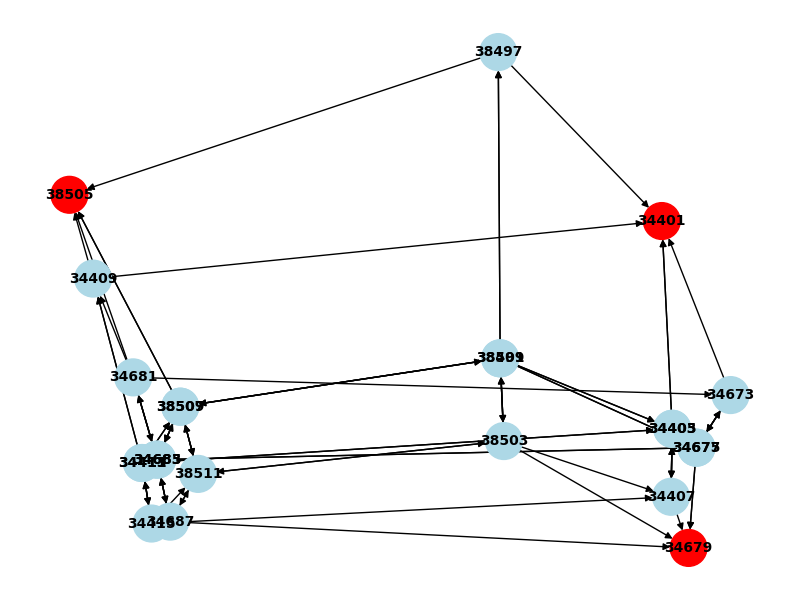
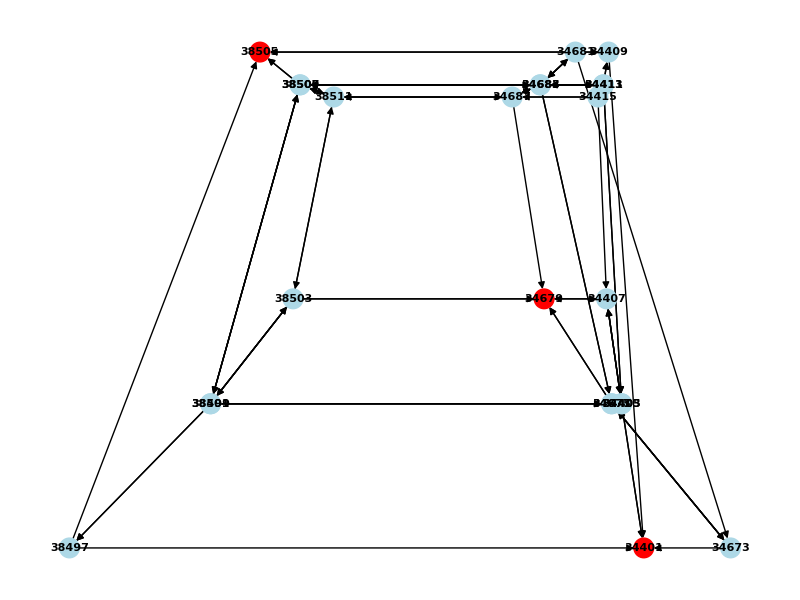
fig generated

diff --git a/complete_graph/L8_confi_dat/L8/draw_sol_graph.py b/complete_graph/L8_confi_dat/L8/draw_sol_graph.py
@@ -22,36 +22,42 @@ def print_coupled_equations(w_connections, M):
 
 
 if (len(sys.argv) < 2):
-    print("python3 draw_sol_graphy.py N idx")
+    print("python3 draw_sol_graphy.py N idx spectral_or_spring")
     exit(1)
 
 N = int(sys.argv[1])
 idx = int(sys.argv[2])
+spectral_or_spring = int(sys.argv[3])
+
 M = N*N
 
 file_path = "./flip_dat/prob-N{}-L8-idx{}.dat".format(N, idx)
 weight_connections = np.loadtxt(file_path, dtype=int)
-connections = np.loadtxt(file_path, dtype=int, usecols=(0, 1))
 print_coupled_equations(weight_connections, M)
 
 G = nx.DiGraph()
 
-G.add_edges_from(connections)
+for source, target, weight in weight_connections:
+	G.add_edge(source, target, weight=weight)
+
+#edge_labels = { (source, target): f"{weight}/{M}" for source, target, weight in weight_connections}
 
 self_edges = list(nx.selfloop_edges(G))
 G.remove_edges_from(self_edges)
 
-nodes_with_no_outgoing_links = [node for node,
-                                out_degree in G.out_degree() if out_degree == 0]
+if (spectral_or_spring == 0):
+	pos = nx.spectral_layout(G)
+	
+else : pos = nx.spring_layout(G)
 
-node_colors = [
-    'red' if node in nodes_with_no_outgoing_links else 'lightblue' for node in G.nodes]
+nodes_with_no_outgoing_links = [node for node, out_degree in G.out_degree() if out_degree == 0]
 
-# pos = nx.spring_layout(G)
-pos = nx.spectral_layout(G)
-
+node_colors = ['red' if node in nodes_with_no_outgoing_links else 'lightblue' for node in G.nodes]
+print(nodes_with_no_outgoing_links)
 plt.figure(figsize=(8, 6))
-nx.draw(G, pos, with_labels=True, node_size=700, node_color=node_colors,
-        font_size=10, font_weight="bold", arrows=True)
+nx.draw(G, pos, with_labels=True, node_size=200, node_color=node_colors,
+        font_size=8, font_weight="bold", arrows=True, arrowsize=10)
+
+#nx.draw_networkx_edge_labels(G, pos, edge_labels=edge_labels)
 
 plt.show()
